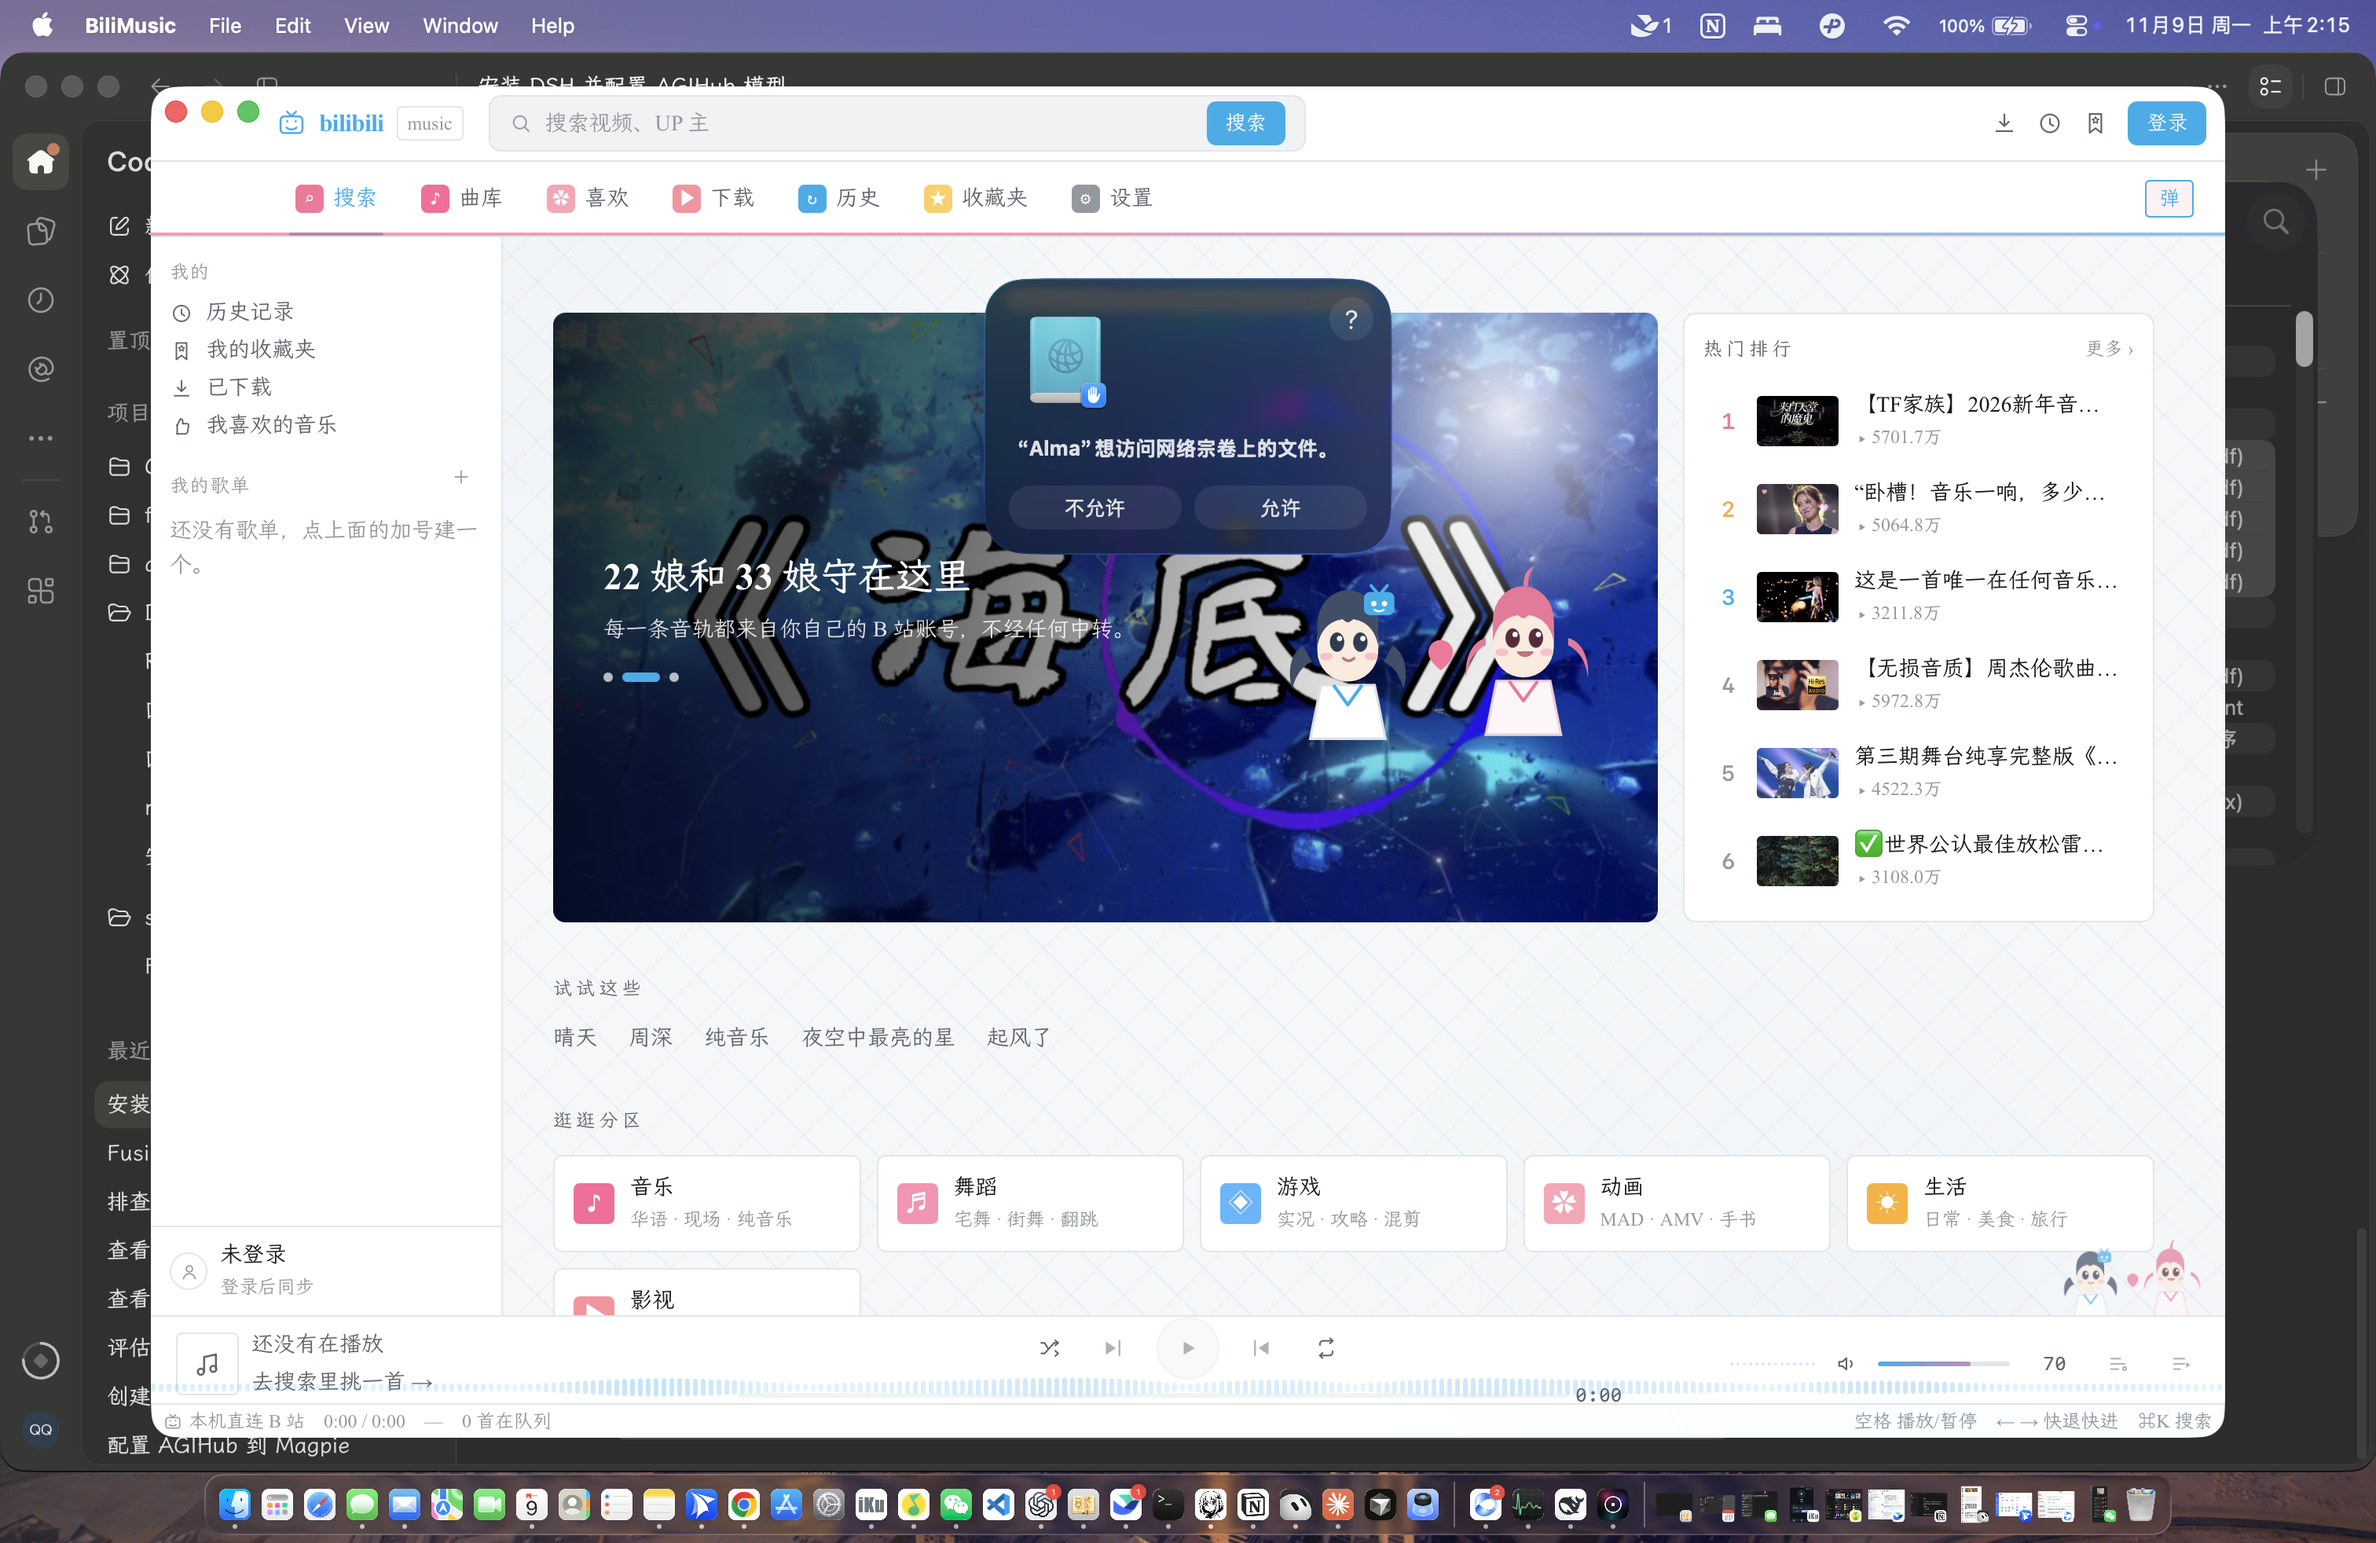
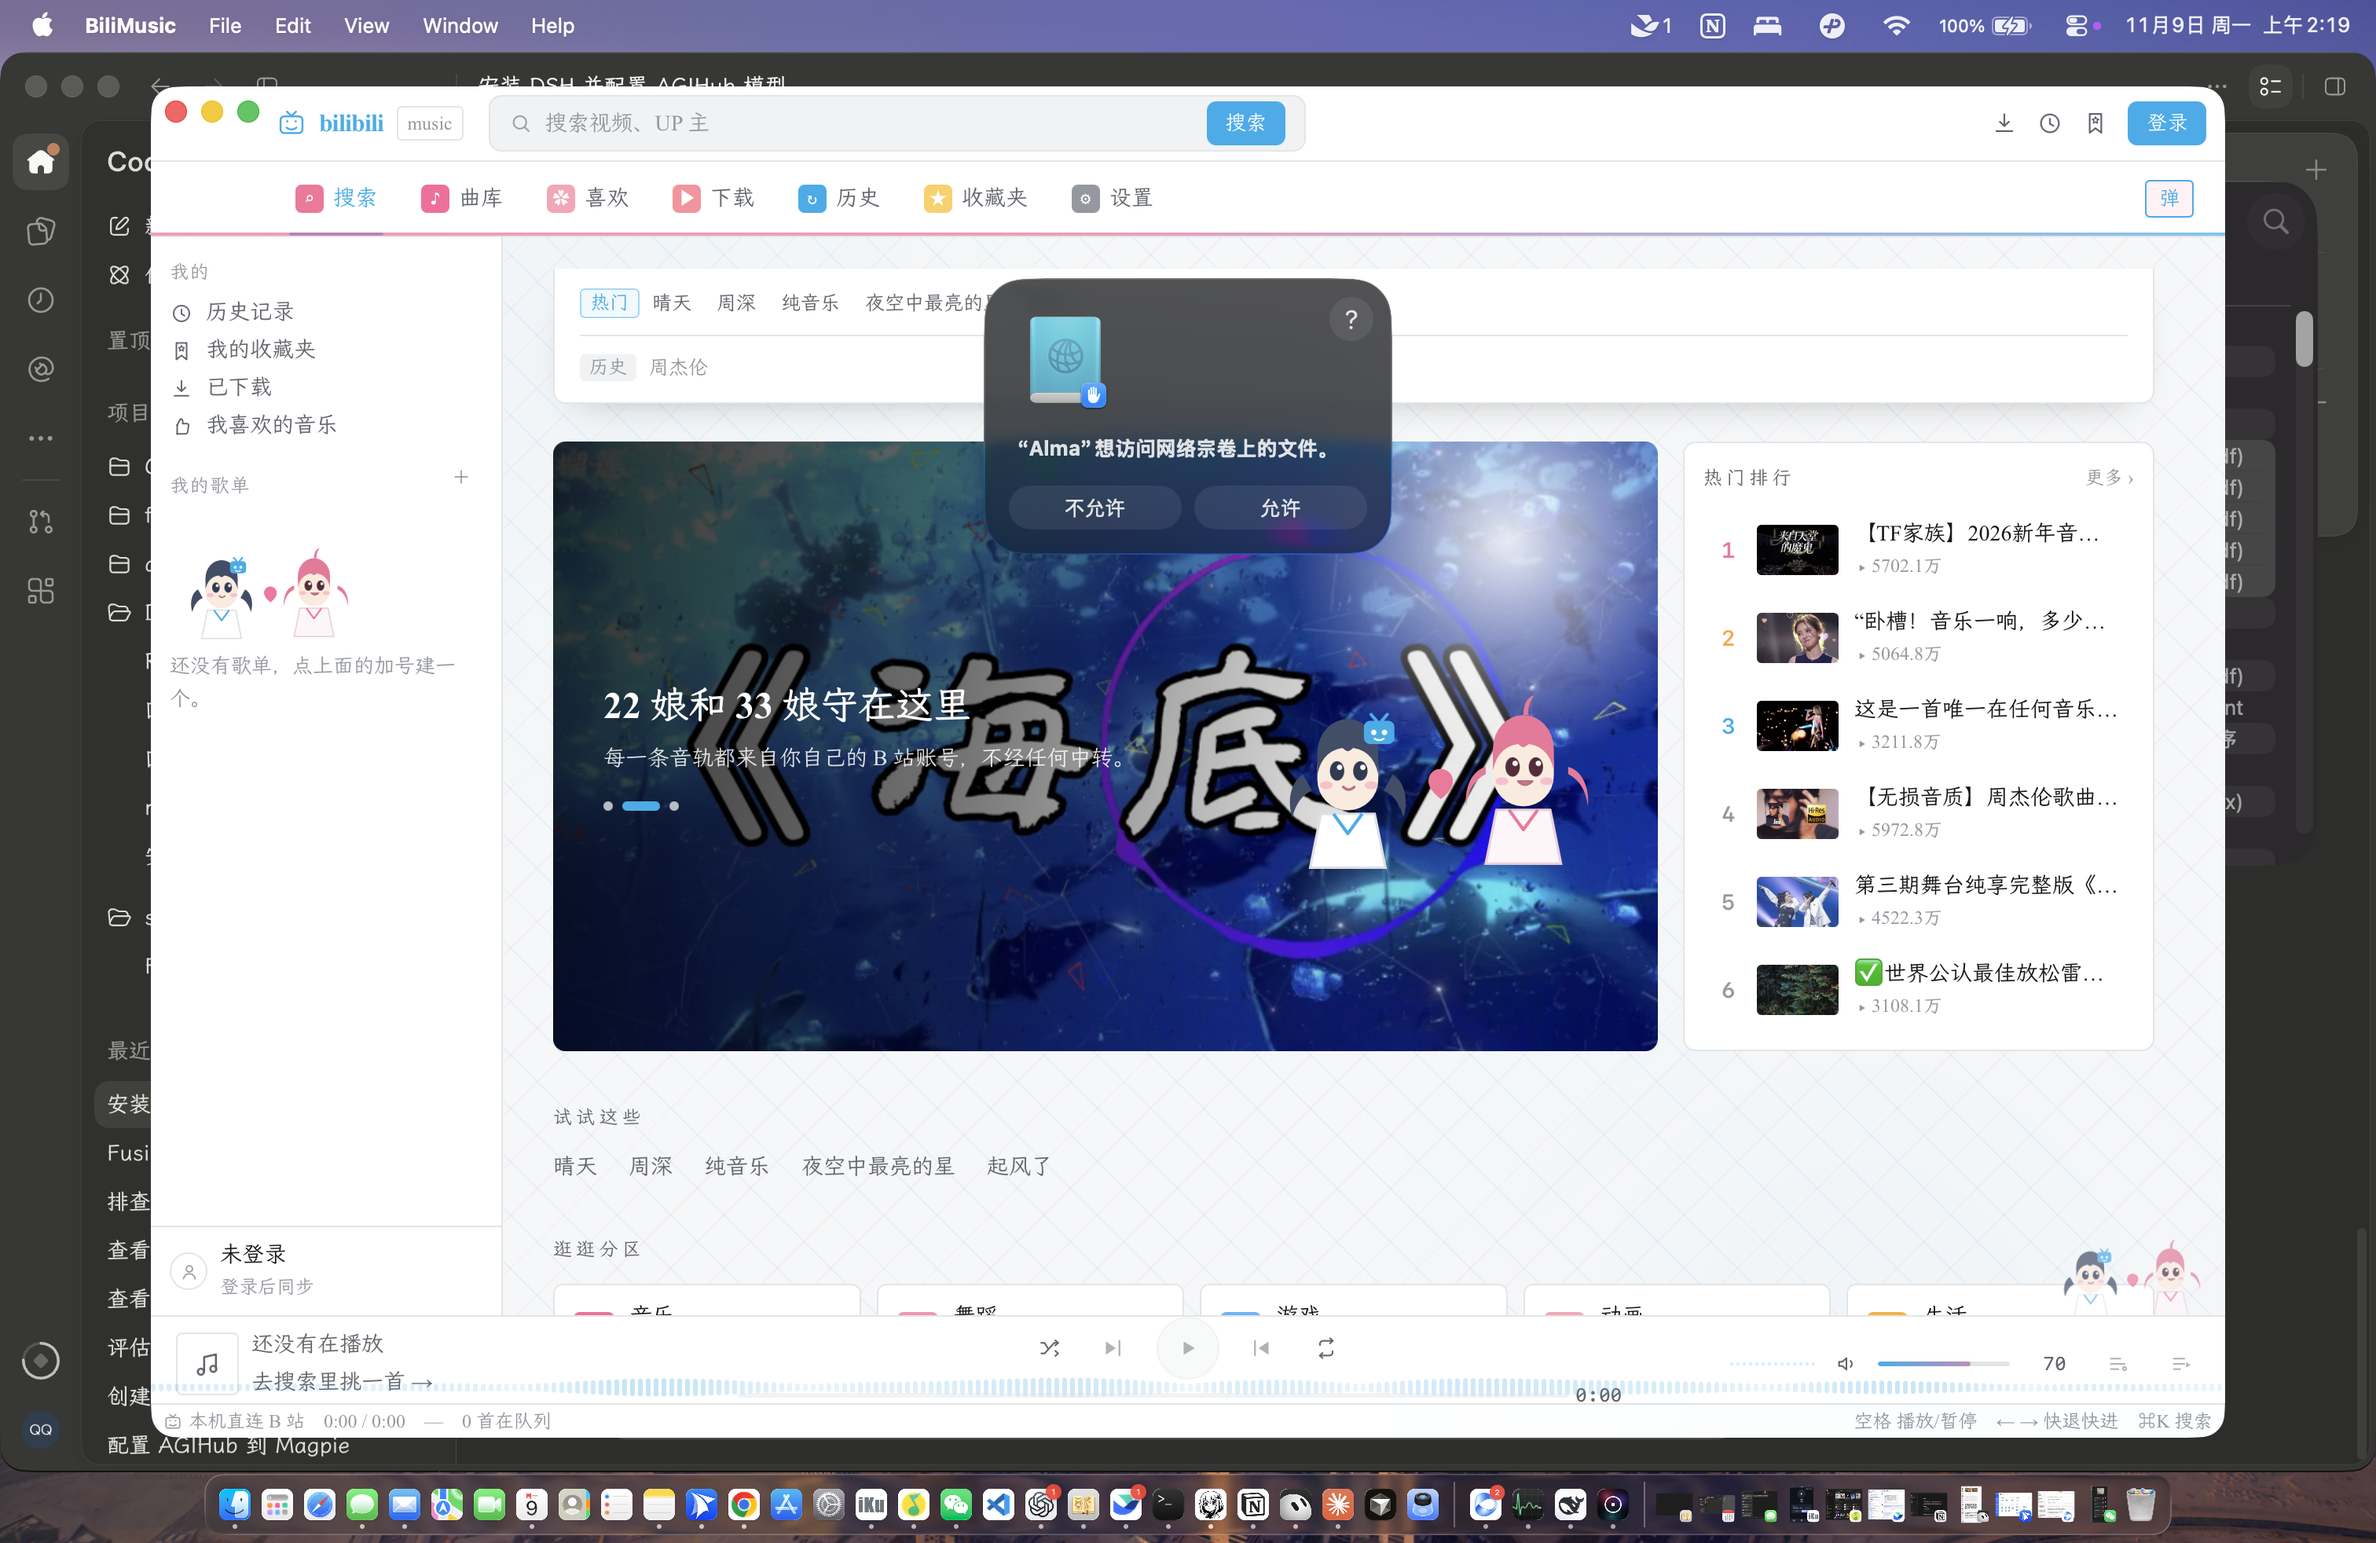
feat(ui): 左栏歌单空态用 2233 插画；更新真机截图

diff --git a/apps/desktop/src/app/Sidebar.tsx b/apps/desktop/src/app/Sidebar.tsx
@@ -4,6 +4,7 @@ import { useAuthStore } from '../features/auth/authStore'
 import { useLibraryStore } from '../features/library/libraryStore'
 import { CreatePlaylistModal } from '../features/library/CreatePlaylistModal'
 import { Avatar } from '../shared/ui/Avatar'
+import { Bili2233 } from '../shared/ui/Bili2233'
 import { Icon } from '../shared/ui/Icon'
 import { Skeleton } from '../shared/ui/Skeleton'
 
@@ -79,9 +80,12 @@ export function Sidebar() {
             <Skeleton className="h-2.5 w-4/5" />
           </div>
         ) : playlists.length === 0 ? (
-          <p className="px-3 py-1 text-[14px] leading-relaxed text-[var(--text-3)]">
-            还没有歌单，点上面的加号建一个。
-          </p>
+          <div className="px-3 py-2">
+            <Bili2233 width={120} />
+            <p className="mt-1 text-[13px] leading-relaxed text-[var(--text-3)]">
+              还没有歌单，点上面的加号建一个。
+            </p>
+          </div>
         ) : (
           playlists.map((playlist) => {
             const active = view.kind === 'playlist' && view.id === playlist.id
